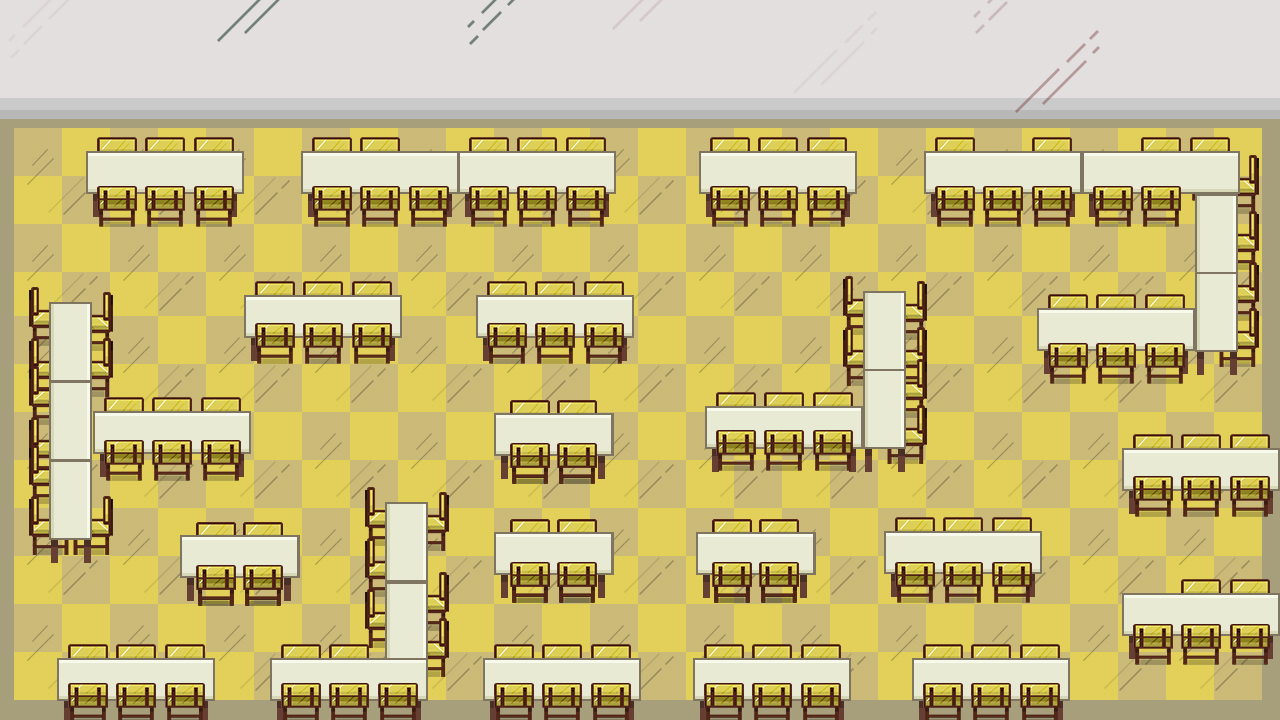
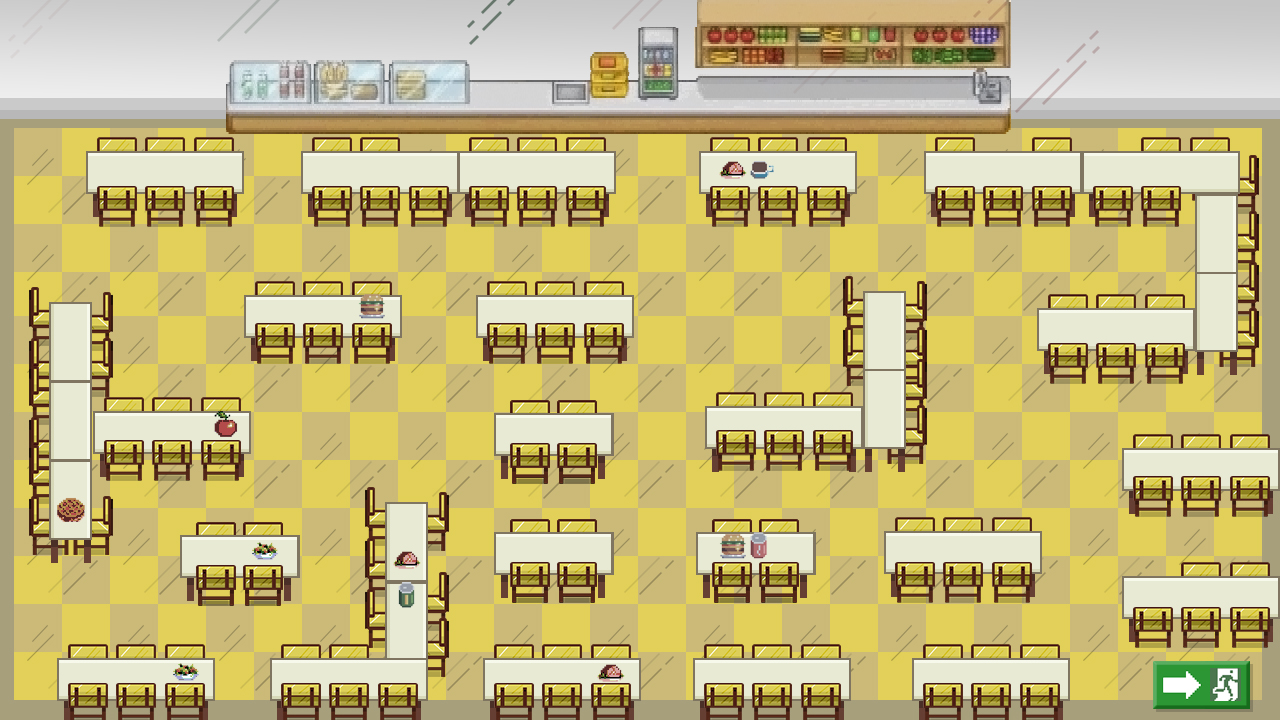
nivel 3 para carmona

diff --git a/level_3.py b/level_3.py
@@ -13,13 +13,13 @@ import loading_screen
 from audio_manager import audio_manager # 💡 IMPORTACIÓN DE LA INSTANCIA GLOBAL
 
 # --- CONSTANTES ---
-PATH_FONDO_NIVEL_1 = "recursos/FondoNivel1.jpg" 
+PATH_FONDO_NIVEL_1 = "recursos/FondoNivel3.png" 
 AZUL_FALLBACK = (50, 50, 150)
-NUM_COLECCIONABLES_REQUERIDOS = 6 
-TIEMPO_LIMITE_SEGUNDOS = 30
+NUM_COLECCIONABLES_REQUERIDOS = 8 
+TIEMPO_LIMITE_SEGUNDOS = 60
 TIEMPO_PENALIZACION = 2
-TIEMPO_BONIFICACION = 2 # 💡 NUEVA CONSTANTE
-COLECCIONABLES_BUENOS_INDICES = [0, 1, 2] 
+TIEMPO_BONIFICACION = 0 # 💡 NUEVA CONSTANTE
+COLECCIONABLES_BUENOS_INDICES = [12, 13, 14, 15] 
 
 # --- CONSTANTES DE PAUSA ---
 PATH_BTN_PAUSA = "recursos/btn_pausa.png"
@@ -69,15 +69,7 @@ def setup_level(player):
     
     # DEFINICIÓN DE OBSTÁCULOS
     obstaculos_coords = [
-        (0, 110, 955, 20), (1116, 110, 164, 20), (0, 129, 13, 700), 
-        (1262, 129, 16, 700), (0, 700, 1280, 20), (94, 213, 73, 72), 
-        (94, 213, 229, 20), (251, 213, 73, 178), (13, 371, 240, 20),
-        (488, 128, 73, 309), (551, 417, 246, 20), (724, 417, 73, 174),
-        (330, 519, 467, 20), (330, 534, 73, 55), (93, 571, 310, 20),
-        (93, 467, 73, 124), (488, 639, 73, 67), (1116, 127, 73, 105), 
-        (646, 212, 472, 20), (646, 225, 73, 110), (711, 315, 321, 20),
-        (1116, 315, 73, 122), (880, 417, 240, 20), (880, 432, 73, 157),
-        (1188, 571, 73, 20), (1032, 572, 73, 132)
+
     ]
     
     for x, y, w, h in obstaculos_coords:
@@ -90,11 +82,24 @@ def setup_level(player):
     
     # COLECCIONABLES (Índices 0-2 BUENOS, 3-5 MALOS)
     coleccionables_coords = [
-        (24, 186, 0), (347, 217, 2), (257, 644, 1), (595, 628, 2), 
-        (807, 391, 0), (574, 191, 1), 
+        (24, 186, 12), 
+        (347, 217, 13), 
+        (257, 644, 14), 
+        (595, 628, 15), 
+        (807, 391, 12), 
+        (574, 191, 13),
+        (100, 200, 14),
+        (150, 250, 15),
         # Malos
-        (430, 416, 3), (186, 510, 4), (974, 648, 5), (1192, 510, 3), 
-        (1021, 265, 4), (1207, 205, 5) 
+        (430, 416, 16), 
+        (186, 510, 17), 
+        (974, 648, 18), 
+        (1192, 510, 16), 
+        (1021, 265, 17), 
+        (1207, 205, 18),
+        (1207, 205, 16),
+        (1207, 205, 17),
+        (1207, 205, 18)
     ]
 
     for x, y, index in coleccionables_coords:

diff --git a/level_2.py b/level_2.py
@@ -72,7 +72,7 @@ def setup_level(player):
         (1, 82, 1269, 19),
         (1269, 99, 17, 619),
         (1, 707, 1279, 13),
-        (2, 718, 17, 622),
+        (0, 119, 7, 586),
         #OBSTACULO MESAS
         (102, 142, 135, 49),#1
         (316, 142, 290, 46),#2
@@ -94,8 +94,8 @@ def setup_level(player):
         (712, 520, 87, 45),#17
         (895, 517, 137, 46),#18
         (1133, 435, 137, 45),#19
-        (1133, 596, 146, 29),#20
-        (1181, 579, 90, 15),#20.1
+        (1134, 578, 145, 29),#20
+        (1181, 562, 89, 15),#20.1
         (923, 644, 138, 41),#21
         (704, 644, 138, 41),#22
         (494, 645, 137, 40),#23
@@ -108,24 +108,24 @@ def setup_level(player):
         obstaculo_list.add(obstaculo)
         
     # DEFINICIÓN DE LA META
-    meta = Meta(955, 100, 160, 17)
+    meta = Meta(1241, 652, 27, 52)
     meta_group.add(meta)
     
     # COLECCIONABLES (Índices 0-2 BUENOS, 3-5 MALOS)
     coleccionables_coords = [
-        (24, 186, 6), 
-        (347, 217, 7), 
-        (257, 644, 8), 
-        (595, 628, 7), 
-        (807, 391, 6), 
-        (574, 191, 8), 
+        (223, 233, 6), 
+        (1062, 455, 6), 
+        (132, 500, 7), 
+        (639, 426, 7),
+        (380, 445, 8), 
+        (855, 600, 8), 
         # Malos
-        (430, 416, 9), 
-        (186, 510, 10), 
-        (974, 648, 11), 
-        (1192, 510, 9), 
-        (1021, 265, 10), 
-        (1207, 205, 11) 
+        (641, 173, 9), 
+        (220, 622, 9), 
+        (1200, 510, 10), 
+        (795, 338, 10), 
+        (465, 233, 11), 
+        (1047, 242, 11) 
     ]
 
     for x, y, index in coleccionables_coords:

diff --git a/coleccionable.py b/coleccionable.py
@@ -38,6 +38,17 @@ ANIMATION_SETS = {
     11: {"base_path": "recursos/coleccionables/malos/level_2", "filename": "HAMBURGUESA.PNG", "is_good": False}, 
     
     # Nota: Los coleccionables de level_3 pueden continuar la numeración si los agregas.
+        # COLECCIONABLES BUENOS (LEVEL 2)
+    12: {"base_path": "recursos/coleccionables/buenos/level_3", "filename": "BALON.PNG", "is_good": True, "effect": VELOCIDAD_BONUS}, 
+    13: {"base_path": "recursos/coleccionables/buenos/level_3", "filename": "GORRA.PNG", "is_good": True, "effect": VELOCIDAD_BONUS}, 
+    14: {"base_path": "recursos/coleccionables/buenos/level_3", "filename": "JABON.PNG", "is_good": True, "effect": VELOCIDAD_BONUS}, 
+    15: {"base_path": "recursos/coleccionables/buenos/level_3", "filename": "PROTECTOR_SOLAR.PNG", "is_good": True, "effect": VELOCIDAD_BONUS}, 
+
+
+    # COLECCIONABLES MALOS (LEVEL 2)
+    16: {"base_path": "recursos/coleccionables/malos/level_3", "filename": "BEB_ENER.PNG", "is_good": False}, 
+    17: {"base_path": "recursos/coleccionables/malos/level_3", "filename": "JUEGO.PNG", "is_good": False}, 
+    18: {"base_path": "recursos/coleccionables/malos/level_3", "filename": "SILLA.PNG", "is_good": False}, 
 }
 
 MAX_INDEX = 11 # El índice máximo ahora es 11

diff --git a/meta.py b/meta.py
@@ -8,7 +8,7 @@ class Meta(pygame.sprite.Sprite):
         
         # Crear superficie transparente (como lo hiciste con Obstaculo)
         self.image = pygame.Surface([ancho, alto], pygame.SRCALPHA)
-        self.image.fill((0,0,0,0)) #COLOCAR 0,0,0,0 PARA NO VEL / COLOCA color PARA VER
+        self.image.fill((color)) #COLOCAR 0,0,0,0 PARA NO VEL / COLOCA color PARA VER
         
         # Rectángulo de colisión
         self.rect = self.image.get_rect()
